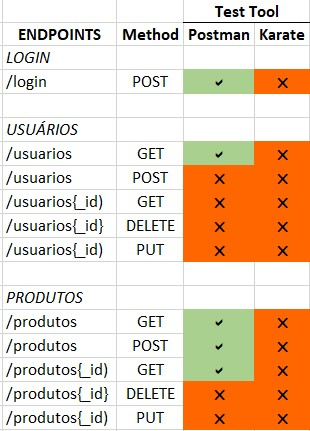
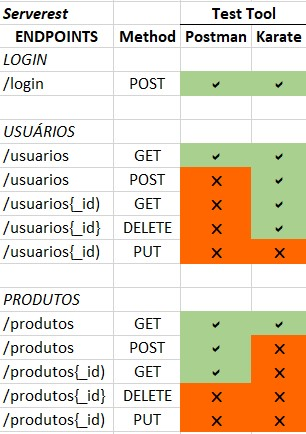
more than 15 tests added - Serverest Karate -- added a file to run all tests in karateAPI_Graduation -- img updated

diff --git a/KarateAPI_Graduation/src/test/java/tests_content/RunAllTests.java b/KarateAPI_Graduation/src/test/java/tests_content/RunAllTests.java
@@ -1,4 +1,4 @@
-package API_Services;
+package tests_content;
 
 import com.intuit.karate.Results;
 import com.intuit.karate.Runner;
@@ -11,7 +11,7 @@ class RunAllTests {
     @Test
     void runAllTest() {
         /* return Karate.run().relativeTo(getClass()); */
-        Results results = Runner.path("classpath:API_Services")
+        Results results = Runner.path("classpath:tests_content")
                 .tags("~@ignore")
                 // .outputCucumberJson(true)
                 .parallel(10);

diff --git a/KarateAPI_Portfolio/src/test/java/API_Services/serv_serverest/ServeRestTestRunner.java b/KarateAPI_Portfolio/src/test/java/API_Services/serv_serverest/ServeRestTestRunner.java
@@ -4,10 +4,12 @@ import com.intuit.karate.junit5.Karate;
 
 class ServeRestTestRunner {
 
+    //String file = "/users/" + "GET_GetProducts";
+
     @Karate.Test
-    Karate runRRTest() {
+    Karate runServrestTest() {
         return Karate.run().relativeTo(getClass());
-        /* return Karate.run("POST_RegisterUser").relativeTo(getClass()); */
+        /* return Karate.run(file).relativeTo(getClass()); */
     }
 
 }

diff --git a/KarateAPI_Graduation/src/test/java/tests_content/aula/star_wars/SwRunner.java b/KarateAPI_Graduation/src/test/java/tests_content/aula/star_wars/SwRunner.java
@@ -1,12 +1,12 @@
-package aula.star_wars;
+package tests_content.aula.star_wars;
 
 import com.intuit.karate.junit5.Karate;
 
 class SwRunner {
-    
+
     @Karate.Test
     Karate testStarWars() {
         return Karate.run("star_wars").relativeTo(getClass());
-    }    
+    }
 
 }

diff --git a/KarateAPI_Graduation/src/test/java/tests_content/prova/provaRunner.java b/KarateAPI_Graduation/src/test/java/tests_content/prova/provaRunner.java
@@ -1,12 +1,12 @@
-package prova;
+package tests_content.prova;
 
 import com.intuit.karate.junit5.Karate;
 
 class provaRunner {
-    
+
     @Karate.Test
     Karate prova() {
         return Karate.run("prova").relativeTo(getClass());
-    }    
+    }
 
 }

diff --git a/KarateAPI_Graduation/src/test/java/tests_content/aula/json_placeholder/JsonRunner.java b/KarateAPI_Graduation/src/test/java/tests_content/aula/json_placeholder/JsonRunner.java
@@ -1,4 +1,4 @@
-package aula.json_placeholder;
+package tests_content.aula.json_placeholder;
 
 import com.intuit.karate.junit5.Karate;
 

diff --git a/KarateAPI_Graduation/src/test/java/tests_content/aula/pokemon/PokeRunner.java b/KarateAPI_Graduation/src/test/java/tests_content/aula/pokemon/PokeRunner.java
@@ -1,4 +1,4 @@
-package aula.pokemon;
+package tests_content.aula.pokemon;
 
 import com.intuit.karate.junit5.Karate;
 

diff --git a/KarateAPI_Graduation/src/test/java/tests_content/trabalho/Rick_MortyRunner.java b/KarateAPI_Graduation/src/test/java/tests_content/trabalho/Rick_MortyRunner.java
@@ -1,4 +1,4 @@
-package trabalho;
+package tests_content.trabalho;
 
 import com.intuit.karate.junit5.Karate;
 
